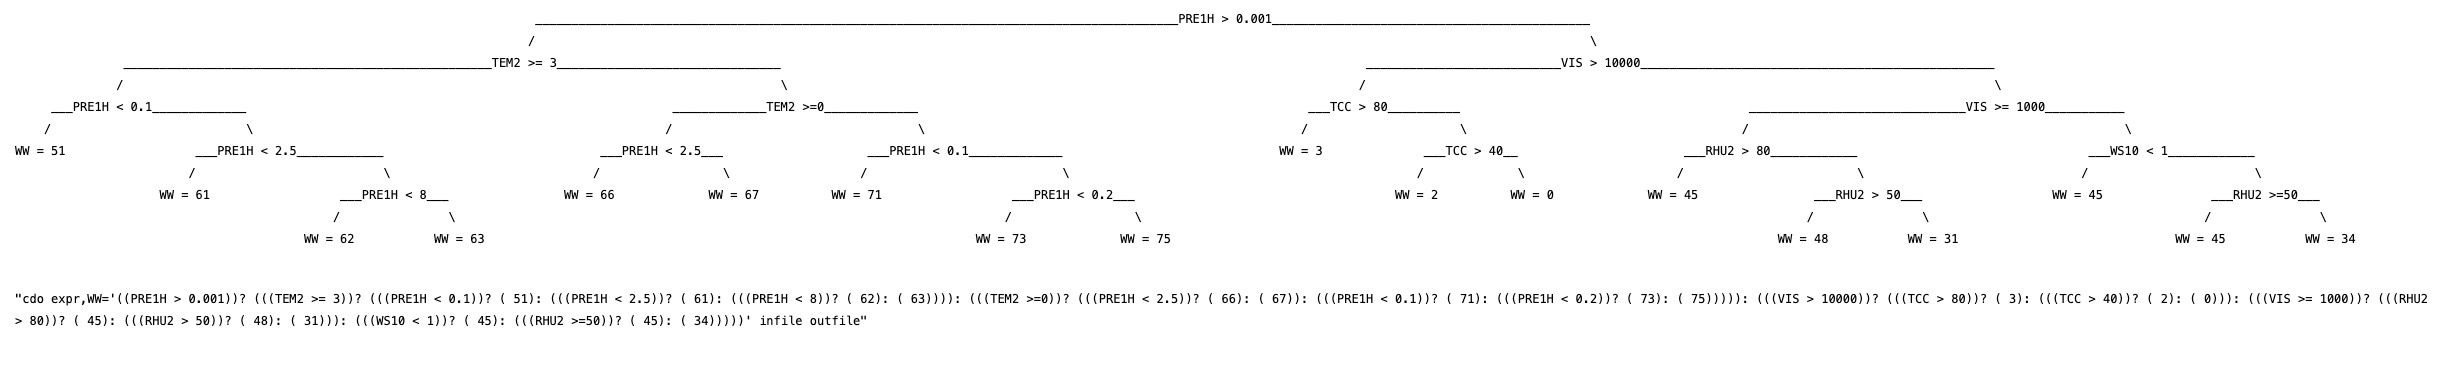
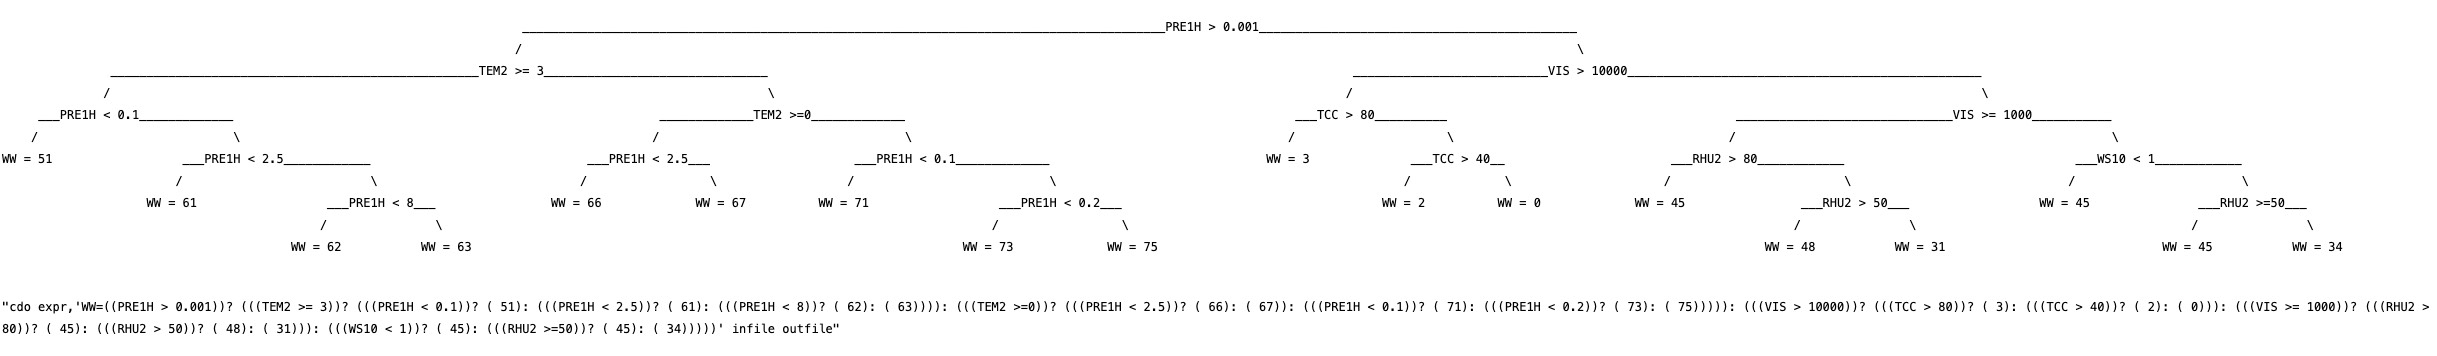
update: static pic

diff --git a/readme.md b/readme.md
@@ -68,7 +68,7 @@ else:
                 WW = 34
 '''
 expr = cexpr.conditions(s, verbose=True)
-f"cdo expr,WW='{expr}' infile outfile"
+f"cdo expr,'WW={expr}' infile outfile"
 ```
 ![](static/conditions.jpg)
 
